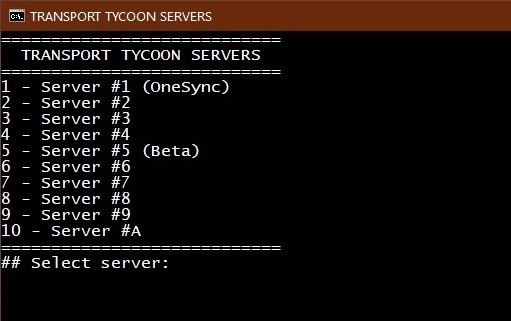
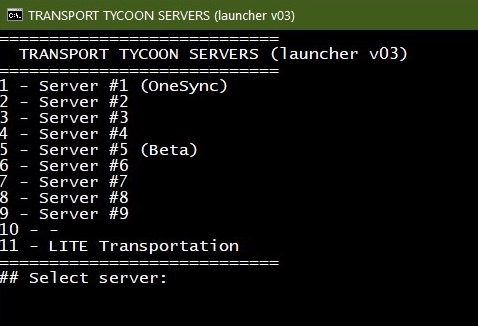
update

Changed region(s): [[0.0, 0.1869, 0.5858, 0.8723], [0.0, 0.0, 1.0, 0.1869]]

diff --git a/build/index.html b/build/index.html
@@ -5,16 +5,16 @@
     <meta http-equiv="X-UA-Compatible" content="IE=edge">
     <meta name="viewport" content="width=device-width, initial-scale=1.0">
     <link rel="stylesheet" href="style.css">
-    <title>TT Launcher v01</title>
+    <title>TT Launcher v03</title>
 </head>
 <body>
-    <h2>TT Launcher v01</h2>
+    <h2>TT Launcher v03</h2>
     <img src="code.jpg" alt="code.jpg">
     <h2>Download the launcher: <a href="tt_launcher.bat">tt_launcher.bat</a></h2>
     <h4>code:</h4>
     <textarea style="width: 511px; height: 321px;">@ECHO OFF
 setlocal enabledelayedexpansion 
-set launcher_version=v01
+set launcher_version=v03
 
 TITLE TRANSPORT TYCOON SERVERS (launcher %launcher_version%)
 ECHO ============================
@@ -41,8 +41,12 @@ set server_name[9]=Server #9
 set server_endpoint[9]=wmapod
 set server_name[10]=Server #A
 set server_endpoint[10]=wxjpge
+set server_name[10]=-
+set server_endpoint[10]=-
+set server_name[11]=LITE Transportation
+set server_endpoint[11]=dgpvx3
 
-for /l %%n in (1,1,10) do ( 
+for /l %%n in (1,1,11) do ( 
    echo %%n - !server_name[%%n]!
 )
 
@@ -52,7 +56,7 @@ ECHO ============================
 set found=0
 set /p "selected=## Select server: "
 
-for /l %%n in (1,1,10) do ( 
+for /l %%n in (1,1,11) do ( 
    if %selected%==%%n (
        echo ## fivem://connect/cfx.re/join/!server_endpoint[%selected%]!
        explorer.exe "fivem://connect/cfx.re/join/!server_endpoint[%selected%]!"
